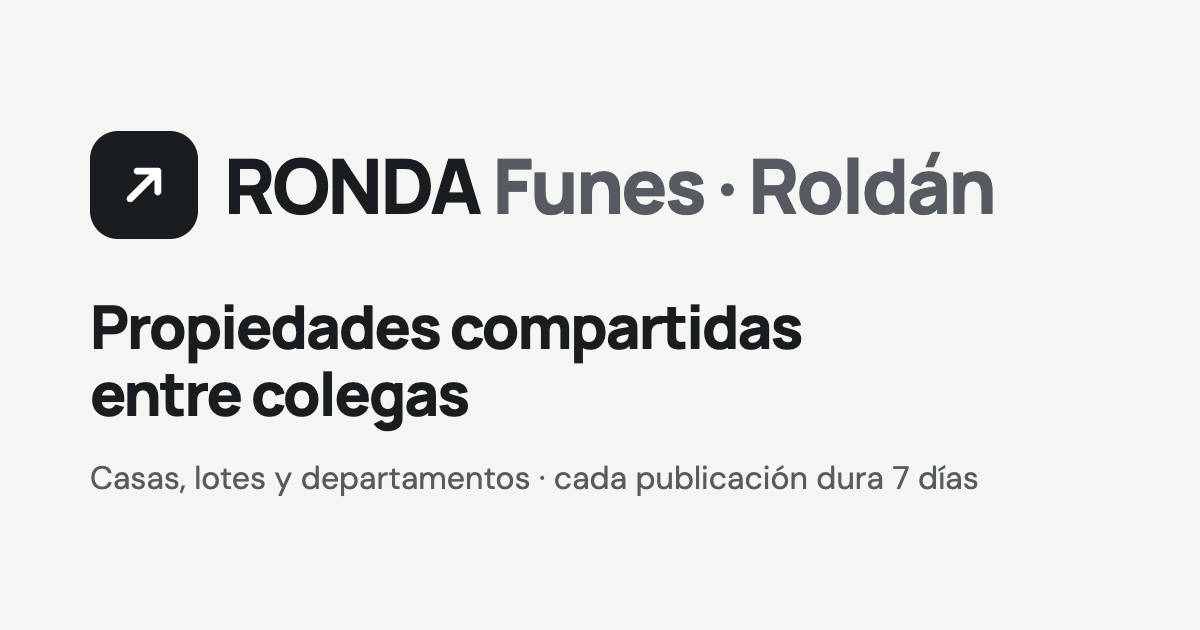
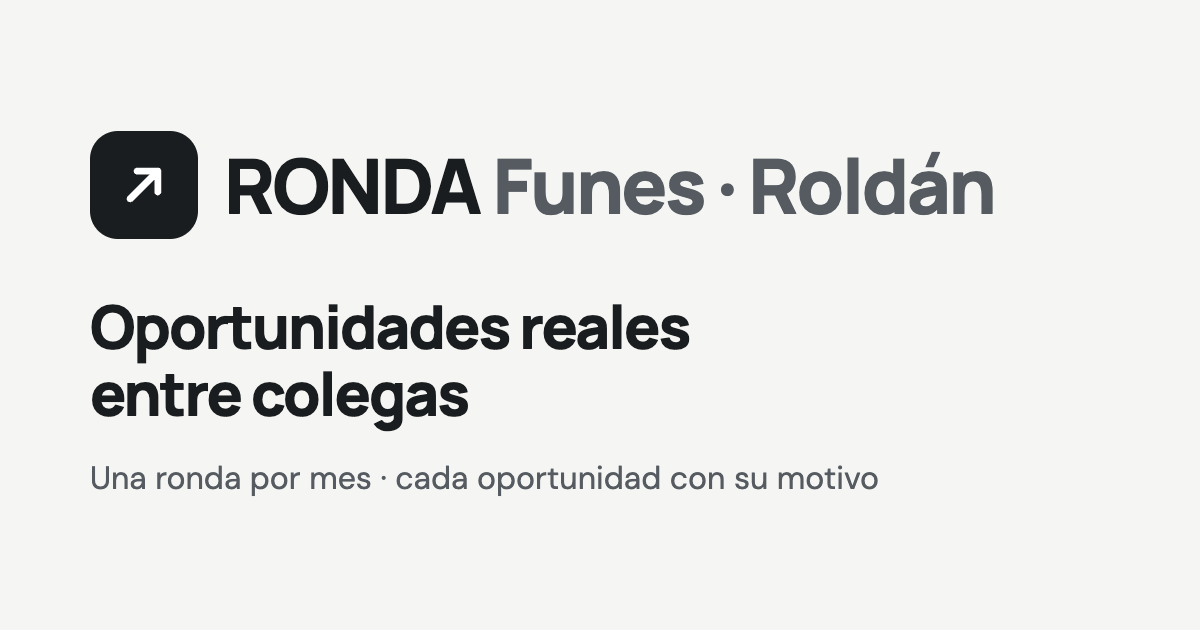
feat(ronda): ronda mensual, solo oportunidades reales con su motivo obligatorio
David (14-oct-2026): "en realidad lo vamos a hacer 1 vez al mes, solo
oportunidades reales, es fundamental y obligatorio escribir por qué lo
considerás oportunidad".

- Cada oportunidad dura 30 días (era 7).
- "¿Por qué es una oportunidad?" pasa a ser obligatorio en los dos caminos
  (enlace y carga a mano), en la pantalla y en el servidor (leerMotivo:
  mínimo 25 caracteres, para que no alcance con "buena oportunidad"). La
  tarjeta lo muestra como "Por qué es oportunidad".
- Los textos hablan de oportunidades del mes: "Ronda mensual · octubre",
  "Oportunidades del mes", "+ Publicar oportunidad", la guía, el vacío y la
  imagen que se ve al compartir el link.

Changed region(s): [[0.0617, 0.4825, 0.6783, 0.573], [0.0617, 0.7238, 0.8325, 0.7841]]

diff --git a/public/ronda/index.html b/public/ronda/index.html
@@ -6,10 +6,10 @@
   <meta name="robots" content="noindex,nofollow">
   <meta name="theme-color" content="#f5f5f3">
   <title>Ronda Funes Roldán · Propiedades entre colegas</title>
-  <meta name="description" content="Las inmobiliarias de Funes y Roldán comparten propiedades por 7 días. Buscá, escribile al colega y mandale la ficha a tu cliente.">
+  <meta name="description" content="Una vez por mes, las inmobiliarias de Funes y Roldán comparten sus oportunidades reales. Buscá, escribile al colega y mandale la ficha a tu cliente.">
   <meta property="og:type" content="website">
   <meta property="og:title" content="Ronda Funes Roldán">
-  <meta property="og:description" content="Propiedades de Funes y Roldán compartidas entre colegas. Cada publicación dura 7 días.">
+  <meta property="og:description" content="Oportunidades reales de Funes y Roldán, compartidas entre colegas una vez por mes.">
   <meta property="og:image" content="https://verficha.casa/ronda/portada.png">
   <meta property="og:url" content="https://verficha.casa/ronda">
   <link rel="icon" href="/ronda/icono.svg" type="image/svg+xml">
@@ -19,7 +19,7 @@
   <link rel="stylesheet" href="/ronda/styles.css">
 </head>
 <body>
-  <a class="saltar" href="#grilla">Ir a las propiedades</a>
+  <a class="saltar" href="#grilla">Ir a las oportunidades</a>
 
   <header class="tope">
     <div class="envoltura tope-fila">
@@ -30,22 +30,22 @@
       <div class="tope-acciones">
         <button class="boton-icono" id="abrirGuia" type="button" aria-label="Cómo funciona la ronda">?</button>
         <button class="boton-perfil" id="abrirPerfil" type="button" aria-label="Mis datos" hidden></button>
-        <button class="boton primario solo-escritorio" type="button" data-publicar>+ Publicar propiedad</button>
+        <button class="boton primario solo-escritorio" type="button" data-publicar>+ Publicar oportunidad</button>
       </div>
     </div>
   </header>
 
   <main class="envoltura" id="contenido">
     <section class="portada">
-      <p class="antetitulo" id="semana">RONDA SEMANAL</p>
-      <h1>Propiedades de esta semana</h1>
-      <p>Funes y Roldán, entre colegas. Cada publicación dura 7&nbsp;días; hasta 3 por inmobiliaria.</p>
+      <p class="antetitulo" id="semana">RONDA MENSUAL</p>
+      <h1>Oportunidades del mes</h1>
+      <p>Solo oportunidades reales, cada una con su motivo. Duran 30&nbsp;días; hasta 3 por inmobiliaria.</p>
     </section>
 
     <section class="filtros" aria-label="Buscar y filtrar">
       <div class="buscador">
         <svg aria-hidden="true" viewBox="0 0 24 24" width="20" height="20"><circle cx="11" cy="11" r="7" fill="none" stroke="currentColor" stroke-width="2"/><path d="m20 20-3.5-3.5" stroke="currentColor" stroke-width="2" stroke-linecap="round"/></svg>
-        <input id="buscar" name="q" type="search" autocomplete="off" enterkeyhint="search" placeholder="Buscar barrio, colega o inmobiliaria…" aria-label="Buscar propiedades">
+        <input id="buscar" name="q" type="search" autocomplete="off" enterkeyhint="search" placeholder="Buscar barrio, colega o inmobiliaria…" aria-label="Buscar oportunidades">
       </div>
       <div class="filtro-fila">
         <span class="filtro-rotulo" id="rotuloTipo">Tipo</span>
@@ -86,7 +86,7 @@
   </footer>
 
   <div class="barra-publicar solo-celular">
-    <button class="boton primario grande" type="button" data-publicar>+ Publicar propiedad</button>
+    <button class="boton primario grande" type="button" data-publicar>+ Publicar oportunidad</button>
   </div>
 
   <!-- La puerta: clave de acceso -->
@@ -170,12 +170,12 @@
         <button type="button" class="cerrar" data-cerrar aria-label="Cerrar">×</button>
       </div>
       <ol class="pasos">
-        <li><span aria-hidden="true">1</span><div><strong>Buscá una propiedad</strong><p>Están todas en esta pantalla. Filtrá por casas, lotes o departamentos, y por Funes o Roldán.</p></div></li>
-        <li><span aria-hidden="true">2</span><div><strong>Escribile al colega</strong><p>Cada propiedad dice quién la publicó. Tocás WhatsApp y le escribís directo.</p></div></li>
+        <li><span aria-hidden="true">1</span><div><strong>Buscá una oportunidad</strong><p>Están todas en esta pantalla, cada una con el motivo por el que es oportunidad. Filtrá por tipo y por ciudad.</p></div></li>
+        <li><span aria-hidden="true">2</span><div><strong>Escribile al colega</strong><p>Cada oportunidad dice quién la publicó. Tocás WhatsApp y le escribís directo.</p></div></li>
         <li><span aria-hidden="true">3</span><div><strong>Mandale la ficha a tu cliente</strong><p>«Copiar ficha para mi cliente» te da un enlace sin logos ni datos del colega.</p></div></li>
-        <li><span aria-hidden="true">4</span><div><strong>Publicá las tuyas</strong><p>Pegás el enlace de la ficha de Tokko o del aviso de Zonaprop; si no se puede leer, la cargás con tus fotos. Queda 7&nbsp;días; hasta 3 propiedades por inmobiliaria.</p></div></li>
+        <li><span aria-hidden="true">4</span><div><strong>Publicá tus oportunidades</strong><p>Pegás el enlace de la ficha de Tokko o del aviso de Zonaprop y escribís por qué es una oportunidad (es obligatorio). Dura 30&nbsp;días; hasta 3 por inmobiliaria.</p></div></li>
       </ol>
-      <button class="boton primario grande" type="button" data-cerrar>Ver las propiedades</button>
+      <button class="boton primario grande" type="button" data-cerrar>Ver las oportunidades</button>
     </div>
   </dialog>
 
@@ -185,7 +185,7 @@
       <div class="hoja-cabeza">
         <div>
           <p class="antetitulo">PUBLICAR</p>
-          <h2 id="publicarTitulo">Publicar una propiedad</h2>
+          <h2 id="publicarTitulo">Publicar una oportunidad</h2>
         </div>
         <button type="button" class="cerrar" data-cerrar aria-label="Cerrar">×</button>
       </div>
@@ -286,14 +286,15 @@
           <p class="ayuda chica">No pongas teléfonos ni el nombre de tu inmobiliaria: la ficha para clientes sale sin datos de contacto.</p>
         </div>
         <div class="campo">
-          <label for="oportunidadManual">¿Qué acepta o necesita el propietario? <span class="opcional">(opcional)</span></label>
-          <textarea id="oportunidadManual" name="oportunidad" maxlength="350" rows="2" placeholder="Ej.: acepta departamento en parte de pago…"></textarea>
-          <p class="ayuda chica">Lo ven solo los colegas.</p>
+          <label for="oportunidadManual">¿Por qué es una oportunidad? <span class="obligatorio">(obligatorio)</span></label>
+          <textarea id="oportunidadManual" name="oportunidad" maxlength="500" rows="3" required aria-describedby="motivoManualAyuda" placeholder="Ej.: está 15 % por debajo de lo que se pide en el barrio y el dueño necesita vender este mes…"></textarea>
+          <p class="error" id="motivoManualError" hidden></p>
+          <p class="ayuda chica" id="motivoManualAyuda">Solo oportunidades reales: precio, urgencia del dueño, permuta, financiación… Lo ven solo los colegas.</p>
         </div>
         <p class="error" id="manualError" hidden></p>
         <div class="fila-botones">
           <button type="button" class="boton suave" id="volverDeManual">Volver</button>
-          <button class="boton primario" type="submit">Publicar por 7 días</button>
+          <button class="boton primario" type="submit">Publicar por 30 días</button>
         </div>
         <p class="estado" id="publicandoManual" role="status" hidden>Publicando… estamos armando la ficha para clientes.</p>
       </form>
@@ -314,14 +315,15 @@
           <p class="ayuda chica" id="precioAyuda"></p>
         </div>
         <div class="campo">
-          <label for="oportunidad">¿Qué acepta o necesita el propietario? <span class="opcional">(opcional)</span></label>
-          <textarea id="oportunidad" name="oportunidad" maxlength="350" rows="3" placeholder="Ej.: acepta departamento en parte de pago…"></textarea>
-          <p class="ayuda chica">Lo ven solo los colegas. No escribas datos personales del propietario.</p>
+          <label for="oportunidad">¿Por qué es una oportunidad? <span class="obligatorio">(obligatorio)</span></label>
+          <textarea id="oportunidad" name="oportunidad" maxlength="500" rows="3" required aria-describedby="motivoAyuda" placeholder="Ej.: está 15 % por debajo de lo que se pide en el barrio y el dueño necesita vender este mes…"></textarea>
+          <p class="error" id="motivoError" hidden></p>
+          <p class="ayuda chica" id="motivoAyuda">Solo oportunidades reales: precio, urgencia del dueño, permuta, financiación… Lo ven solo los colegas; no escribas datos personales del propietario.</p>
         </div>
         <p class="error" id="publicarError" hidden></p>
         <div class="fila-botones">
           <button type="button" class="boton suave" id="cambiarEnlace">Cambiar enlace</button>
-          <button class="boton primario" type="submit">Publicar por 7 días</button>
+          <button class="boton primario" type="submit">Publicar por 30 días</button>
         </div>
         <p class="estado" id="publicando" role="status" hidden>Publicando… estamos armando la ficha para clientes.</p>
       </form>

diff --git a/public/ronda/app.js b/public/ronda/app.js
@@ -189,7 +189,7 @@
         <h3>${esc(p.titulo)}</h3>
         <p class="precio">${precio(p)}</p>
         ${hechos.length ? `<ul class="datos">${hechos.map((d) => `<li>${d}</li>`).join('')}</ul>` : ''}
-        ${p.oportunidad ? `<div class="oportunidad"><b>Oportunidad comercial</b><p>${esc(p.oportunidad)}</p></div>` : ''}
+        ${p.oportunidad ? `<div class="oportunidad"><b>Por qué es oportunidad</b><p>${esc(p.oportunidad)}</p></div>` : ''}
         <div class="colega">
           <span class="avatar" aria-hidden="true">${esc(iniciales(p.agente.nombre))}</span>
           <div><strong>${esc(p.agente.nombre)}</strong><small>${esc(p.inmobiliaria.nombre)}</small></div>
@@ -226,15 +226,15 @@
     }
     const todas = vigentes()
     const lista = filtradas()
-    conteo.textContent = todas.length === 0 ? '' : lista.length === 1 ? '1 propiedad' : `${lista.length} propiedades`
+    conteo.textContent = todas.length === 0 ? '' : lista.length === 1 ? '1 oportunidad' : `${lista.length} oportunidades`
     if (lista.length > 0) {
       grilla.innerHTML = lista.map(tarjeta).join('')
     } else if (todas.length === 0) {
       grilla.innerHTML =
-        '<div class="vacio"><strong>Todavía no hay propiedades esta semana</strong><p>Publicá la primera: pegás el enlace del aviso y queda 7 días a la vista de los colegas.</p><button type="button" class="boton primario" data-publicar>+ Publicar propiedad</button></div>'
+        '<div class="vacio"><strong>Todavía no hay oportunidades este mes</strong><p>Publicá la primera: pegás el enlace del aviso, contás por qué es una oportunidad y queda 30 días a la vista de los colegas.</p><button type="button" class="boton primario" data-publicar>+ Publicar oportunidad</button></div>'
     } else {
       grilla.innerHTML =
-        '<div class="vacio"><strong>No hay propiedades con esos filtros</strong><p>Probá con otra ciudad u otro tipo.</p><button type="button" class="boton suave" data-quitar-filtros>Quitar filtros</button></div>'
+        '<div class="vacio"><strong>No hay oportunidades con esos filtros</strong><p>Probá con otra ciudad u otro tipo.</p><button type="button" class="boton suave" data-quitar-filtros>Quitar filtros</button></div>'
     }
   }
 
@@ -633,9 +633,9 @@
   function pintarCupo() {
     const usadas = deMiInmobiliaria()
     const lleno = usadas.length >= MAX_POR_INMOBILIARIA
-    $('#cupo').textContent = `${sesion.inmobiliaria.nombre} usa ${usadas.length} de ${MAX_POR_INMOBILIARIA} lugares esta semana.`
+    $('#cupo').textContent = `${sesion.inmobiliaria.nombre} usa ${usadas.length} de ${MAX_POR_INMOBILIARIA} lugares en la ronda.`
     $('#pasoLleno').hidden = !lleno
-    $('#llenoNota').textContent = `Tu inmobiliaria ya tiene ${MAX_POR_INMOBILIARIA} propiedades en la ronda, que es el máximo. Para publicar otra, dá de baja una o esperá a que venza.`
+    $('#llenoNota').textContent = `Tu inmobiliaria ya tiene ${MAX_POR_INMOBILIARIA} oportunidades en la ronda, que es el máximo. Para publicar otra, dá de baja una o esperá a que venza.`
     if (lleno) {
       pasoEnlace.hidden = true
       pasoConfirmar.hidden = true
@@ -693,7 +693,7 @@
     publicaciones = [publicacion, ...vigentes().filter((p) => p.id !== publicacion.id)]
     publicar.close()
     pintar()
-    avisar('Listo. Tu propiedad queda en la ronda por 7 días.')
+    avisar('Listo. Tu oportunidad queda en la ronda por 30 días.')
     window.scrollTo({ top: 0, behavior: matchMedia('(prefers-reduced-motion: reduce)').matches ? 'auto' : 'smooth' })
   }
 
@@ -728,7 +728,7 @@
         </div>`
       pasoConfirmar.reset()
       for (const radio of $$('input[name="ciudad"]', pasoConfirmar)) radio.checked = radio.value === aviso.ciudad
-      for (const id of ['ciudadError', 'publicarError']) error(id, '')
+      for (const id of ['ciudadError', 'motivoError', 'publicarError']) error(id, '')
       // Copia guardada (Zonaprop): puede tener un precio viejo, se deja corregir.
       $('#campoPrecio').hidden = !aviso.leidoEl
       if (aviso.leidoEl) {
@@ -761,6 +761,19 @@
     $('#enlace').focus()
   })
 
+
+  const MOTIVO_MINIMO = 25
+  /** El motivo de la oportunidad es obligatorio (regla de David). Devuelve el error o ''. */
+  function errorDeMotivo(texto) {
+    if (!texto) return 'Escribí por qué es una oportunidad: es obligatorio.'
+    if (texto.length < MOTIVO_MINIMO) return 'Contá un poco más por qué es una oportunidad (precio, urgencia del dueño, permuta…).'
+    return ''
+  }
+
+  // Apenas escribe el motivo, se va el aviso de que falta.
+  $('#oportunidad').addEventListener('input', () => error('motivoError', ''))
+  $('#oportunidadManual').addEventListener('input', () => error('motivoManualError', ''))
+
   pasoConfirmar.addEventListener('submit', async (e) => {
     e.preventDefault()
     if (!revisado) return
@@ -768,6 +781,12 @@
     if (!ciudad) {
       error('ciudadError', 'Elegí si está en Funes o en Roldán.')
       $('input[name="ciudad"]', pasoConfirmar).focus()
+      return
+    }
+    const faltaMotivo = errorDeMotivo($('#oportunidad').value.replace(/\s+/g, ' ').trim())
+    error('motivoError', faltaMotivo)
+    if (faltaMotivo) {
+      $('#oportunidad').focus()
       return
     }
     for (const id of ['ciudadError', 'publicarError']) error(id, '')
@@ -865,7 +884,7 @@
     fotosManual = []
     pasoManual.reset()
     pintarFotos()
-    for (const id of ['fotosError', 'tipoError', 'ciudadManualError', 'manualError']) error(id, '')
+    for (const id of ['fotosError', 'tipoError', 'ciudadManualError', 'motivoManualError', 'manualError']) error(id, '')
     $('#publicandoManual').hidden = true
   }
 
@@ -929,6 +948,7 @@
       ['fotosError', 'agregarFoto', subiendo ? 'Esperá a que terminen de subir las fotos.' : listas.length === 0 ? 'Agregá al menos una foto.' : ''],
       ['tipoError', 'tipoManual', f.get('tipo') ? '' : 'Elegí el tipo de propiedad.'],
       ['ciudadManualError', null, f.get('ciudadManual') ? '' : 'Elegí si está en Funes o en Roldán.'],
+      ['motivoManualError', 'oportunidadManual', errorDeMotivo(String(f.get('oportunidad') || '').replace(/\s+/g, ' ').trim())],
     ]
     for (const [id, , texto] of errores) error(id, texto)
     error('manualError', '')
@@ -1003,7 +1023,7 @@
       <div class="detalle-foto">${foto(p, { tamanos: '(min-width: 700px) 520px, 100vw', urgente: true })}</div>
       <p class="precio grande">${precio(p)}</p>
       ${hechos.length ? `<ul class="datos">${hechos.map((d) => `<li>${d}</li>`).join('')}</ul>` : ''}
-      ${p.oportunidad ? `<div class="oportunidad"><b>Oportunidad comercial</b><p>${esc(p.oportunidad)}</p></div>` : ''}
+      ${p.oportunidad ? `<div class="oportunidad"><b>Por qué es oportunidad</b><p>${esc(p.oportunidad)}</p></div>` : ''}
       <div class="colega amplio">
         <span class="avatar" aria-hidden="true">${esc(iniciales(p.agente.nombre))}</span>
         <div>
@@ -1166,14 +1186,8 @@
 
   // ── Arranque ──────────────────────────────────────────────────────────
   function semana() {
-    const hoy = new Date()
-    const lunes = new Date(hoy)
-    lunes.setDate(hoy.getDate() - ((hoy.getDay() + 6) % 7))
-    const domingo = new Date(lunes)
-    domingo.setDate(lunes.getDate() + 6)
-    const mes = (d) => new Intl.DateTimeFormat('es-AR', { month: 'short' }).format(d).replace('.', '')
-    const desde = lunes.getMonth() === domingo.getMonth() ? `${lunes.getDate()}` : `${lunes.getDate()} ${mes(lunes)}`
-    return `Ronda semanal · ${desde} al ${domingo.getDate()} ${mes(domingo)}`
+    const mes = new Intl.DateTimeFormat('es-AR', { month: 'long' }).format(new Date())
+    return `Ronda mensual · ${mes}`
   }
 
   $('#semana').textContent = semana()

diff --git a/src/lib/ronda/reglas.ts b/src/lib/ronda/reglas.ts
@@ -2,8 +2,8 @@
 //
 // La Ronda es la grilla semanal donde las inmobiliarias de Funes y Roldán se
 // comparten propiedades (verficha.casa/ronda). Reglas de David (12-oct-2026):
-// cada publicación dura 7 días, hasta 3 propiedades por inmobiliaria (eran 2 el
-// primer día), y todos
+// ronda mensual (cada oportunidad dura 30 días; empezó semanal), solo
+// oportunidades reales con su motivo por escrito, hasta 3 por inmobiliaria, y todos
 // cargan su WhatsApp la primera vez.
 
 export const CIUDADES_RONDA = ['Funes', 'Roldán'] as const
@@ -12,7 +12,11 @@ export type CiudadRonda = (typeof CIUDADES_RONDA)[number]
 /** Los tres botones de la grilla; lo demás (locales, galpones…) sale en "Todas". */
 export type GrupoTipo = 'Casa' | 'Lote' | 'Departamento' | 'Otro'
 
-export const DIAS_PUBLICACION = 7
+/** La ronda es MENSUAL (David, 14-oct-2026: "lo vamos a hacer 1 vez al mes"). */
+export const DIAS_PUBLICACION = 30
+/** "Es fundamental y obligatorio escribir por qué lo considerás oportunidad" (David, 14-oct-2026). */
+export const MOTIVO_MINIMO = 25
+export const MOTIVO_MAXIMO = 500
 export const MAX_POR_INMOBILIARIA = 3
 export const DIA_MS = 86_400_000
 
@@ -279,6 +283,14 @@ export function leerDatosManual(crudo: unknown): { datos: DatosManual } | { erro
       enlace: enlaceDeAviso(c.enlace),
     },
   }
+}
+
+/** El motivo de la oportunidad: obligatorio y con sustancia. Devuelve el texto limpio o el error. */
+export function leerMotivo(v: unknown): { motivo: string } | { error: string } {
+  const motivo = String(v ?? '').replace(/\s+/g, ' ').trim().slice(0, MOTIVO_MAXIMO)
+  if (!motivo) return { error: 'Escribí por qué es una oportunidad: es obligatorio.' }
+  if (motivo.length < MOTIVO_MINIMO) return { error: 'Contá un poco más por qué es una oportunidad (precio, urgencia del dueño, permuta…).' }
+  return { motivo }
 }
 
 export function activas(publicaciones: Publicacion[], ahora = Date.now()): Publicacion[] {

diff --git a/src/app/api/ronda/publicaciones/route.ts b/src/app/api/ronda/publicaciones/route.ts
@@ -1,7 +1,7 @@
 // /api/ronda/publicaciones
 //
 // GET  → la grilla de la semana (pide la clave de acceso; no la guarda ningún caché).
-// POST → publica una propiedad por 7 días, de dos maneras:
+// POST → publica una oportunidad por 30 días (con su motivo, obligatorio), de dos maneras:
 //          { url, ciudad, oportunidad }     un enlace que se convierte solo (ficha de Tokko,
 //                                           o un Zonaprop de la copia: ahí acepta `precio`)
 //          { manual, ciudad, oportunidad }  cargada a mano, con sus fotos ya subidas
@@ -29,6 +29,7 @@ import {
   DIAS_PUBLICACION,
   esCiudadRonda,
   leerDatosManual,
+  leerMotivo,
   leerPrecio,
   MAX_POR_INMOBILIARIA,
   ocupadas,
@@ -76,7 +77,9 @@ export async function POST(req: Request) {
     return error('Datos inválidos.')
   }
   const ciudad = body.ciudad
-  const oportunidad = String(body.oportunidad ?? '').replace(/\s+/g, ' ').trim().slice(0, 350)
+  const motivo = leerMotivo(body.oportunidad)
+  if ('error' in motivo) return error(motivo.error)
+  const oportunidad = motivo.motivo
   if (!esCiudadRonda(ciudad)) return error('Elegí si la propiedad está en Funes o en Roldán.')
 
   const aMano = body.manual !== undefined

diff --git a/public/ronda/styles.css b/public/ronda/styles.css
@@ -244,6 +244,7 @@ dialog.hoja:not(.completa) .hoja-cuerpo { padding-top: 22px; }
 .campo { margin-top: 18px; border: 0; padding: 0; min-width: 0; }
 .campo > label, .campo > legend { display: block; margin-bottom: 6px; padding: 0; font-weight: 700; font-size: 15px; color: var(--tinta); }
 .opcional { font-weight: 400; color: var(--gris-claro); }
+.obligatorio { font-weight: 700; color: var(--acento); }
 .campo input:not([type='radio']):not([type='file']), .campo textarea, .notas input {
   width: 100%; min-height: 52px; padding: 12px 14px; border-radius: 12px;
   border: 1px solid var(--linea-fuerte); background: var(--blanco); color: var(--tinta); font-size: 16px;
